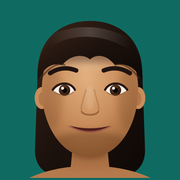
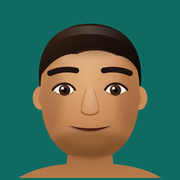
v1.4.1: Nara laki-laki (rambut pendek, rahang tegas) + persona
Claude-Session: https://claude.ai/code/session_01MYJwr1VfoWsd2GyhHBrFqM

Changed region(s): [[0.1111, 0.1111, 0.8889, 1.0]]

diff --git a/index.html b/index.html
@@ -139,29 +139,30 @@ textarea{flex:1;min-width:0;resize:none;border:1px solid var(--line);border-radi
           <linearGradient id="hairShine" x1="0" y1="0" x2="1" y2="0"><stop offset="0" stop-color="#ffffff" stop-opacity="0"/><stop offset=".5" stop-color="#ffffff" stop-opacity=".18"/><stop offset="1" stop-color="#ffffff" stop-opacity="0"/></linearGradient>
           <radialGradient id="blushG"><stop offset="0" stop-color="#e2746a" stop-opacity=".55"/><stop offset="1" stop-color="#e2746a" stop-opacity="0"/></radialGradient>
           <radialGradient id="irisG" cx="40%" cy="35%" r="70%"><stop offset="0" stop-color="#6b3d22"/><stop offset=".7" stop-color="#3a2113"/><stop offset="1" stop-color="#1b0f08"/></radialGradient>
-          <radialGradient id="lipG" cx="50%" cy="30%" r="70%"><stop offset="0" stop-color="#c0715f"/><stop offset="1" stop-color="#8e4a3e"/></radialGradient>
+          <radialGradient id="lipG" cx="50%" cy="30%" r="70%"><stop offset="0" stop-color="#b27a60"/><stop offset="1" stop-color="#8a5541"/></radialGradient>
           <filter id="soft" x="-30%" y="-30%" width="160%" height="160%"><feGaussianBlur stdDeviation="2.2"/></filter>
           <filter id="soft1" x="-30%" y="-30%" width="160%" height="160%"><feGaussianBlur stdDeviation="1.1"/></filter>
-          <clipPath id="faceClip"><path d="M60 13 C83 13 95 33 95 56 C95 81 81 105 60 105 C39 105 25 81 25 56 C25 33 37 13 60 13 Z"/></clipPath>
+          <clipPath id="faceClip"><path d="M60 13 C84 13 96 32 96 56 C96 76 92 92 78 102 C72 106 48 106 42 102 C28 92 24 76 24 56 C24 32 36 13 60 13 Z"/></clipPath>
         </defs>
         <g class="face-float">
           <!-- rambut belakang -->
-          <path d="M22 44 C22 18 40 6 60 6 C80 6 98 18 98 44 L100 100 C100 112 92 118 84 118 L36 118 C28 118 20 112 20 100 Z" fill="url(#hairG)"/>
+          <path d="M23 50 C21 22 38 8 60 8 C82 8 99 22 97 50 L96 64 C95 60 93 54 92 50 L28 50 C27 54 25 60 24 64 Z" fill="url(#hairG)"/>
           <!-- leher & bahu -->
-          <path d="M48 92 L72 92 L74 112 C84 113 96 116 104 120 L16 120 C24 116 36 113 46 112 Z" fill="url(#neckG)"/>
-          <path d="M48 92 L72 92 L72 104 C66 108 54 108 48 104 Z" fill="#7a4a29" opacity=".45" filter="url(#soft1)"/>
+          <path d="M45 90 L75 90 L77 110 C90 111 102 114 112 120 L8 120 C18 114 30 111 43 110 Z" fill="url(#neckG)"/>
+          <path d="M45 90 L75 90 L75 103 C68 108 52 108 45 103 Z" fill="#7a4a29" opacity=".45" filter="url(#soft1)"/>
           <!-- telinga -->
-          <ellipse cx="25" cy="62" rx="5.2" ry="8" fill="#c98d5c"/><ellipse cx="25.6" cy="62.5" rx="3" ry="5" fill="#a86d43" opacity=".7"/>
-          <ellipse cx="95" cy="62" rx="5.2" ry="8" fill="#c98d5c"/><ellipse cx="94.4" cy="62.5" rx="3" ry="5" fill="#a86d43" opacity=".7"/>
+          <ellipse cx="24" cy="62" rx="5.6" ry="8.5" fill="#c98d5c"/><ellipse cx="25.6" cy="62.5" rx="3" ry="5" fill="#a86d43" opacity=".7"/>
+          <ellipse cx="96" cy="62" rx="5.6" ry="8.5" fill="#c98d5c"/><ellipse cx="94.4" cy="62.5" rx="3" ry="5" fill="#a86d43" opacity=".7"/>
           <!-- wajah -->
-          <path d="M60 13 C83 13 95 33 95 56 C95 81 81 105 60 105 C39 105 25 81 25 56 C25 33 37 13 60 13 Z" fill="url(#skinG)"/>
+          <path d="M60 13 C84 13 96 32 96 56 C96 76 92 92 78 102 C72 106 48 106 42 102 C28 92 24 76 24 56 C24 32 36 13 60 13 Z" fill="url(#skinG)"/>
           <g clip-path="url(#faceClip)">
             <ellipse cx="60" cy="30" rx="22" ry="12" fill="#ffffff" opacity=".10" filter="url(#soft)"/>
             <ellipse cx="60" cy="98" rx="30" ry="12" fill="#5c3418" opacity=".35" filter="url(#soft)"/>
+            <path d="M30 76 C36 96 48 104 60 104 C72 104 84 96 90 76 C86 92 74 99 60 99 C46 99 34 92 30 76 Z" fill="#2b1a12" opacity=".16" filter="url(#soft)"/>
             <ellipse cx="33" cy="62" rx="7" ry="22" fill="#6b3d1e" opacity=".22" filter="url(#soft)"/>
             <ellipse cx="87" cy="62" rx="7" ry="22" fill="#6b3d1e" opacity=".22" filter="url(#soft)"/>
             <!-- bayangan rambut di dahi -->
-            <path d="M24 46 C34 30 46 24 60 24 C74 24 86 30 96 46 L96 36 L24 36 Z" fill="#1c110c" opacity=".35" filter="url(#soft)"/>
+            <path d="M24 44 C34 30 46 26 60 26 C74 26 86 30 96 44 L96 30 L24 30 Z" fill="#1c110c" opacity=".3" filter="url(#soft)"/>
           </g>
           <!-- pipi merona -->
           <circle class="cheek" data-k="cheekL" cx="38" cy="70" r="9" fill="url(#blushG)" opacity="0"/>
@@ -171,8 +172,8 @@ textarea{flex:1;min-width:0;resize:none;border:1px solid var(--line);border-radi
           <path d="M54 72 C56 75 64 75 66 72" fill="none" stroke="#7a4524" stroke-width="1.3" stroke-linecap="round" opacity=".45"/>
           <ellipse cx="60" cy="62" rx="3" ry="9" fill="#ffffff" opacity=".12" filter="url(#soft1)"/>
           <!-- alis -->
-          <path class="brow" data-k="browL" d="M31 44 Q40 38 50 42" stroke="#1f1310" stroke-width="3.2" stroke-linecap="round" fill="none"/>
-          <path class="brow" data-k="browR" d="M70 42 Q80 38 89 44" stroke="#1f1310" stroke-width="3.2" stroke-linecap="round" fill="none"/>
+          <path class="brow" data-k="browL" d="M31 44 Q40 40 50 42" stroke="#1f1310" stroke-width="4.2" stroke-linecap="round" fill="none"/>
+          <path class="brow" data-k="browR" d="M70 42 Q80 40 89 44" stroke="#1f1310" stroke-width="4.2" stroke-linecap="round" fill="none"/>
           <!-- mata -->
           <g class="eye" data-k="eyeL">
             <path d="M33 56 C37 50 46 50 49 56 C46 61 37 61 33 56 Z" fill="#f6efe8"/>
@@ -190,10 +191,9 @@ textarea{flex:1;min-width:0;resize:none;border:1px solid var(--line);border-radi
           <path class="lips" data-k="lips" d="M43 82 Q60 92 77 82 Q60 88 43 82 Z" fill="url(#lipG)"/>
           <path class="mouth" data-k="mouth" d="M45 82 Q60 90 75 82 Q60 86 45 82 Z" fill="#4a1f1a"/>
           <!-- rambut depan (poni) -->
-          <path d="M22 50 C20 26 36 10 60 10 C84 10 100 26 98 50 C94 40 86 36 78 38 C72 30 64 30 60 34 C56 30 46 30 40 38 C32 36 26 40 22 50 Z" fill="url(#hairG)"/>
-          <path d="M30 22 C42 12 70 10 90 24" fill="none" stroke="url(#hairShine)" stroke-width="7" stroke-linecap="round"/>
-          <path d="M78 38 C84 36 90 40 96 48" fill="none" stroke="#3a2419" stroke-width="1.2" opacity=".6"/>
-          <path d="M42 38 C36 36 30 40 24 48" fill="none" stroke="#3a2419" stroke-width="1.2" opacity=".6"/>
+          <path d="M23 48 C22 24 38 9 60 9 C82 9 98 24 97 48 C94 38 88 32 80 31 C72 27 60 26 50 30 C40 29 30 36 23 48 Z" fill="url(#hairG)"/>
+          <path d="M32 20 C44 11 70 9 88 20" fill="none" stroke="url(#hairShine)" stroke-width="6" stroke-linecap="round"/>
+          <path d="M50 30 C58 25 70 26 80 31" fill="none" stroke="#3a2419" stroke-width="1.2" opacity=".6"/>
         </g>
       </svg>
     </div>
@@ -301,13 +301,13 @@ textarea{flex:1;min-width:0;resize:none;border:1px solid var(--line);border-radi
 <script>
 (function(){
 'use strict';
-const APP_VER='1.4.0';
+const APP_VER='1.4.1';
 const $=id=>document.getElementById(id);
 const col=$('col'), main=$('main'), input=$('input'), sendBtn=$('sendBtn'), hint=$('hint');
 
 const DEFAULTS={
   apiKey:'', modelQuick:'claude-haiku-5-5', modelFull:'claude-sonnet-5-5', quick:true,
-  name:'Nara', persona:'Hangat, santai, cerdas, dan jujur. Bicara seperti teman dekat yang bisa diandalkan, bukan seperti robot. Panggil saya Furqan.',
+  name:'Nara', persona:'Laki-laki. Hangat, santai, cerdas, dan jujur. Bicara seperti sahabat laki-laki yang bisa diandalkan, bukan seperti robot. Panggil saya Furqan.',
   notes:'', summary:'', voice:'', rate:1, speak:true,
   kasirUrl:'', kasirKey:'', syncUrl:'', syncKey:'', requests:[], updatedAt:0
 };
@@ -483,7 +483,7 @@ const TOOLS=[
 // ---------- prompt ----------
 function systemPrompt(){
   const now=new Date().toLocaleString('id-ID',{weekday:'long',day:'numeric',month:'long',year:'numeric',hour:'2-digit',minute:'2-digit'});
-  return `Kamu adalah ${S.name}, asisten pribadi Furqan. Furqan adalah pemilik studio foto PURE MOTRET di Kota Palu, Sulawesi Tengah, dengan dua cabang: S.Parman (kode SP) dan Pue Bongo (kode PB). Asisten keuangannya bernama Riang (di S.Parman).
+  return `Kamu adalah ${S.name}, laki-laki, asisten pribadi Furqan. Furqan adalah pemilik studio foto PURE MOTRET di Kota Palu, Sulawesi Tengah, dengan dua cabang: S.Parman (kode SP) dan Pue Bongo (kode PB). Asisten keuangannya bernama Riang (di S.Parman).
 Kepribadian dan gaya bicaramu: ${S.persona}
 Sekarang: ${now} (WITA). Tanggal hari ini: ${ymd(new Date())}.
 
